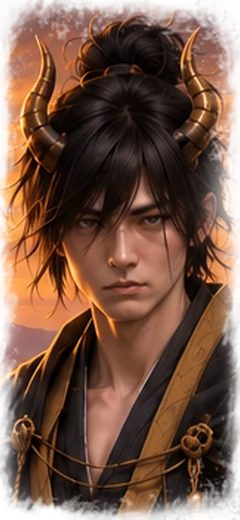
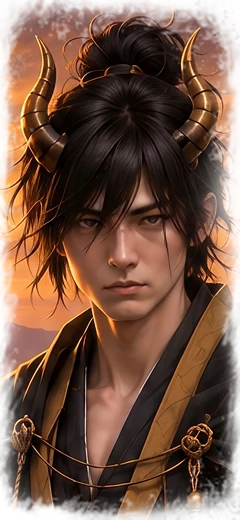
feat(art): 人物卡与人物页大图改用 mod 新出的高清兵牌
mod 那边把沈长风、直虎、纱代、瑟兰娜、伊吹两形、巫女七张 `_full.png` 高清化到约 709×1536
（mod 提交 9b6fddc4），和武士大将、水师提督同一规格。

- build_art.py：人物和兵种一样，同一张 `_full` 出 240×520 撕边卡与 640 宽大图；
  去掉之前「从母版整高裁 12:26」的临时做法（CHAR_FULL / card_strip）
- 七人的图鉴 / 首页人物卡变清楚（原来是 159–257 宽放大到 240），人物页大图换回兵牌构图

Claude-Session: https://claude.ai/code/session_01PWyASCMGhamr1z4XciFJxf

diff --git a/scripts/build_art.py b/scripts/build_art.py
@@ -54,9 +54,10 @@ UNITS = {
     "kunikuzushi-oni": "kunikuzushi_oni/kunikuzushi_oni_full.png",
 }
 
-# 人物卡：key -> `_full.png`。⚠ 多数人物的 `_full` 只有 160–260 px 宽，是游戏兵牌的原尺寸，
-# 这里放大到 240 宽；人物页的大图走下面的 CHAR_FULL。
-CHAR_CARDS = {
+# 人物：key -> `_full.png`（12:26 高清兵牌），和兵种一样同一张出人物卡与人物页大图。
+# 2026-10-12 起七张原本只有 159–257 宽的（沈长风、直虎、纱代、瑟兰娜、伊吹两形、巫女）
+# 已在 mod 那边高清化到约 709×1536（mod 提交 9b6fddc4），和武士大将、水师提督同一规格。
+CHARS = {
     "shen-changfeng": "shen_changfeng/shen_changfeng_full.png",
     "naotora": "tachibana_naotora/tachibana_naotora_full.png",
     "sayo": "sayo/sayo_full.png",
@@ -68,25 +69,6 @@ CHAR_CARDS = {
     "samurai-taisho-03": "samurai_daisho/samurai_taisho_03_full.png",
     "miko": "miko/miko_head1_full.png",
     "fleet-admiral": "admiral/admiral_01_full.png",
-}
-
-# 人物页大图：和兵种页一样用 12:26 的高清兵牌。
-# 武士大将三张与水师提督的 `_full` 本身就是高清兵牌（686–852 宽），直接缩到 640 宽。
-# 其余七张没有高清兵牌：游戏兵牌是母版上头肩那一小块（约 150–250 px 宽），母版里那块并不比兵牌清楚。
-# 所以照武士大将的做法——它的 `_full` 就是 2:3 母版整高裁出的 12:26——从母版整高裁一条 12:26，
-# 第二项是裁切中心的横向位置（占母版宽的比例）。同伴用面板那套带背景的竖图（v2，2026-10-04 重画）。
-CHAR_FULL = {
-    "shen-changfeng": ("shen_changfeng/shen_changfeng_portrait.png", 0.5),
-    "naotora": ("tachibana_naotora/tachibana_naotora_background_vertical.png", 0.5),
-    "sayo": ("sayo/sayo_background_vertical.png", 0.5),
-    "serena": ("serena/serena_background_vertical.png", 0.5),
-    "ibuki": ("ibuki/ibuki_background_vertical.png", 0.5),
-    "ibuki-yokai": ("ibuki/ibuki_yokai_vertical.png", 0.5),
-    "samurai-taisho-01": ("samurai_daisho/samurai_taisho_01_full.png", None),
-    "samurai-taisho-02": ("samurai_daisho/samurai_taisho_02_full.png", None),
-    "samurai-taisho-03": ("samurai_daisho/samurai_taisho_03_full.png", None),
-    "miko": ("miko/miko_head1_portrait.png", 0.5),
-    "fleet-admiral": ("admiral/admiral_01_full.png", None),
 }
 
 # 同伴横幅：任务弹窗插画的 16:9 母版（游戏里的 ui/eventpics 是它的 800×450 缩图）
@@ -108,13 +90,6 @@ def fit(im: Image.Image, size: tuple[int, int]) -> Image.Image:
     im = im.resize((w, h), Image.LANCZOS)
     left, top = (w - tw) // 2, (h - th) // 2
     return im.crop((left, top, left + tw, top + th))
-
-
-def card_strip(im: Image.Image, cx: float) -> Image.Image:
-    """从母版整高裁一条兵牌比例（12:26）的竖条，横向以 cx（占宽比例）为中心，出界就贴边。"""
-    w = round(im.height * CARD[0] / CARD[1])
-    left = min(max(0, round(im.width * cx - w / 2)), im.width - w)
-    return im.crop((left, 0, left + w, im.height))
 
 
 def to_width(im: Image.Image, w: int) -> Image.Image:
@@ -149,16 +124,11 @@ def main() -> None:
         save_webp(torn_card(src, mask), ROOT / "assets/units" / f"{slug}.webp", 90)
         save_webp(to_width(Image.open(src).convert("RGB"), FULL_W), ROOT / "assets/units/full" / f"{slug}.webp", 85)
 
-    print("人物卡")
-    for key, rel in CHAR_CARDS.items():
-        save_webp(torn_card(concepts / rel, mask), ROOT / "assets/chars" / f"{key}.webp", 90)
-
-    print("人物大图")
-    for key, (rel, cx) in CHAR_FULL.items():
-        im = Image.open(concepts / rel).convert("RGB")
-        if cx is not None:
-            im = card_strip(im, cx)
-        save_webp(to_width(im, FULL_W), ROOT / "assets/chars/full" / f"{key}.webp", 85)
+    print("人物")
+    for key, rel in CHARS.items():
+        src = concepts / rel
+        save_webp(torn_card(src, mask), ROOT / "assets/chars" / f"{key}.webp", 90)
+        save_webp(to_width(Image.open(src).convert("RGB"), FULL_W), ROOT / "assets/chars/full" / f"{key}.webp", 85)
 
     print("同伴横幅")
     for slug, rel in SCENES.items():
